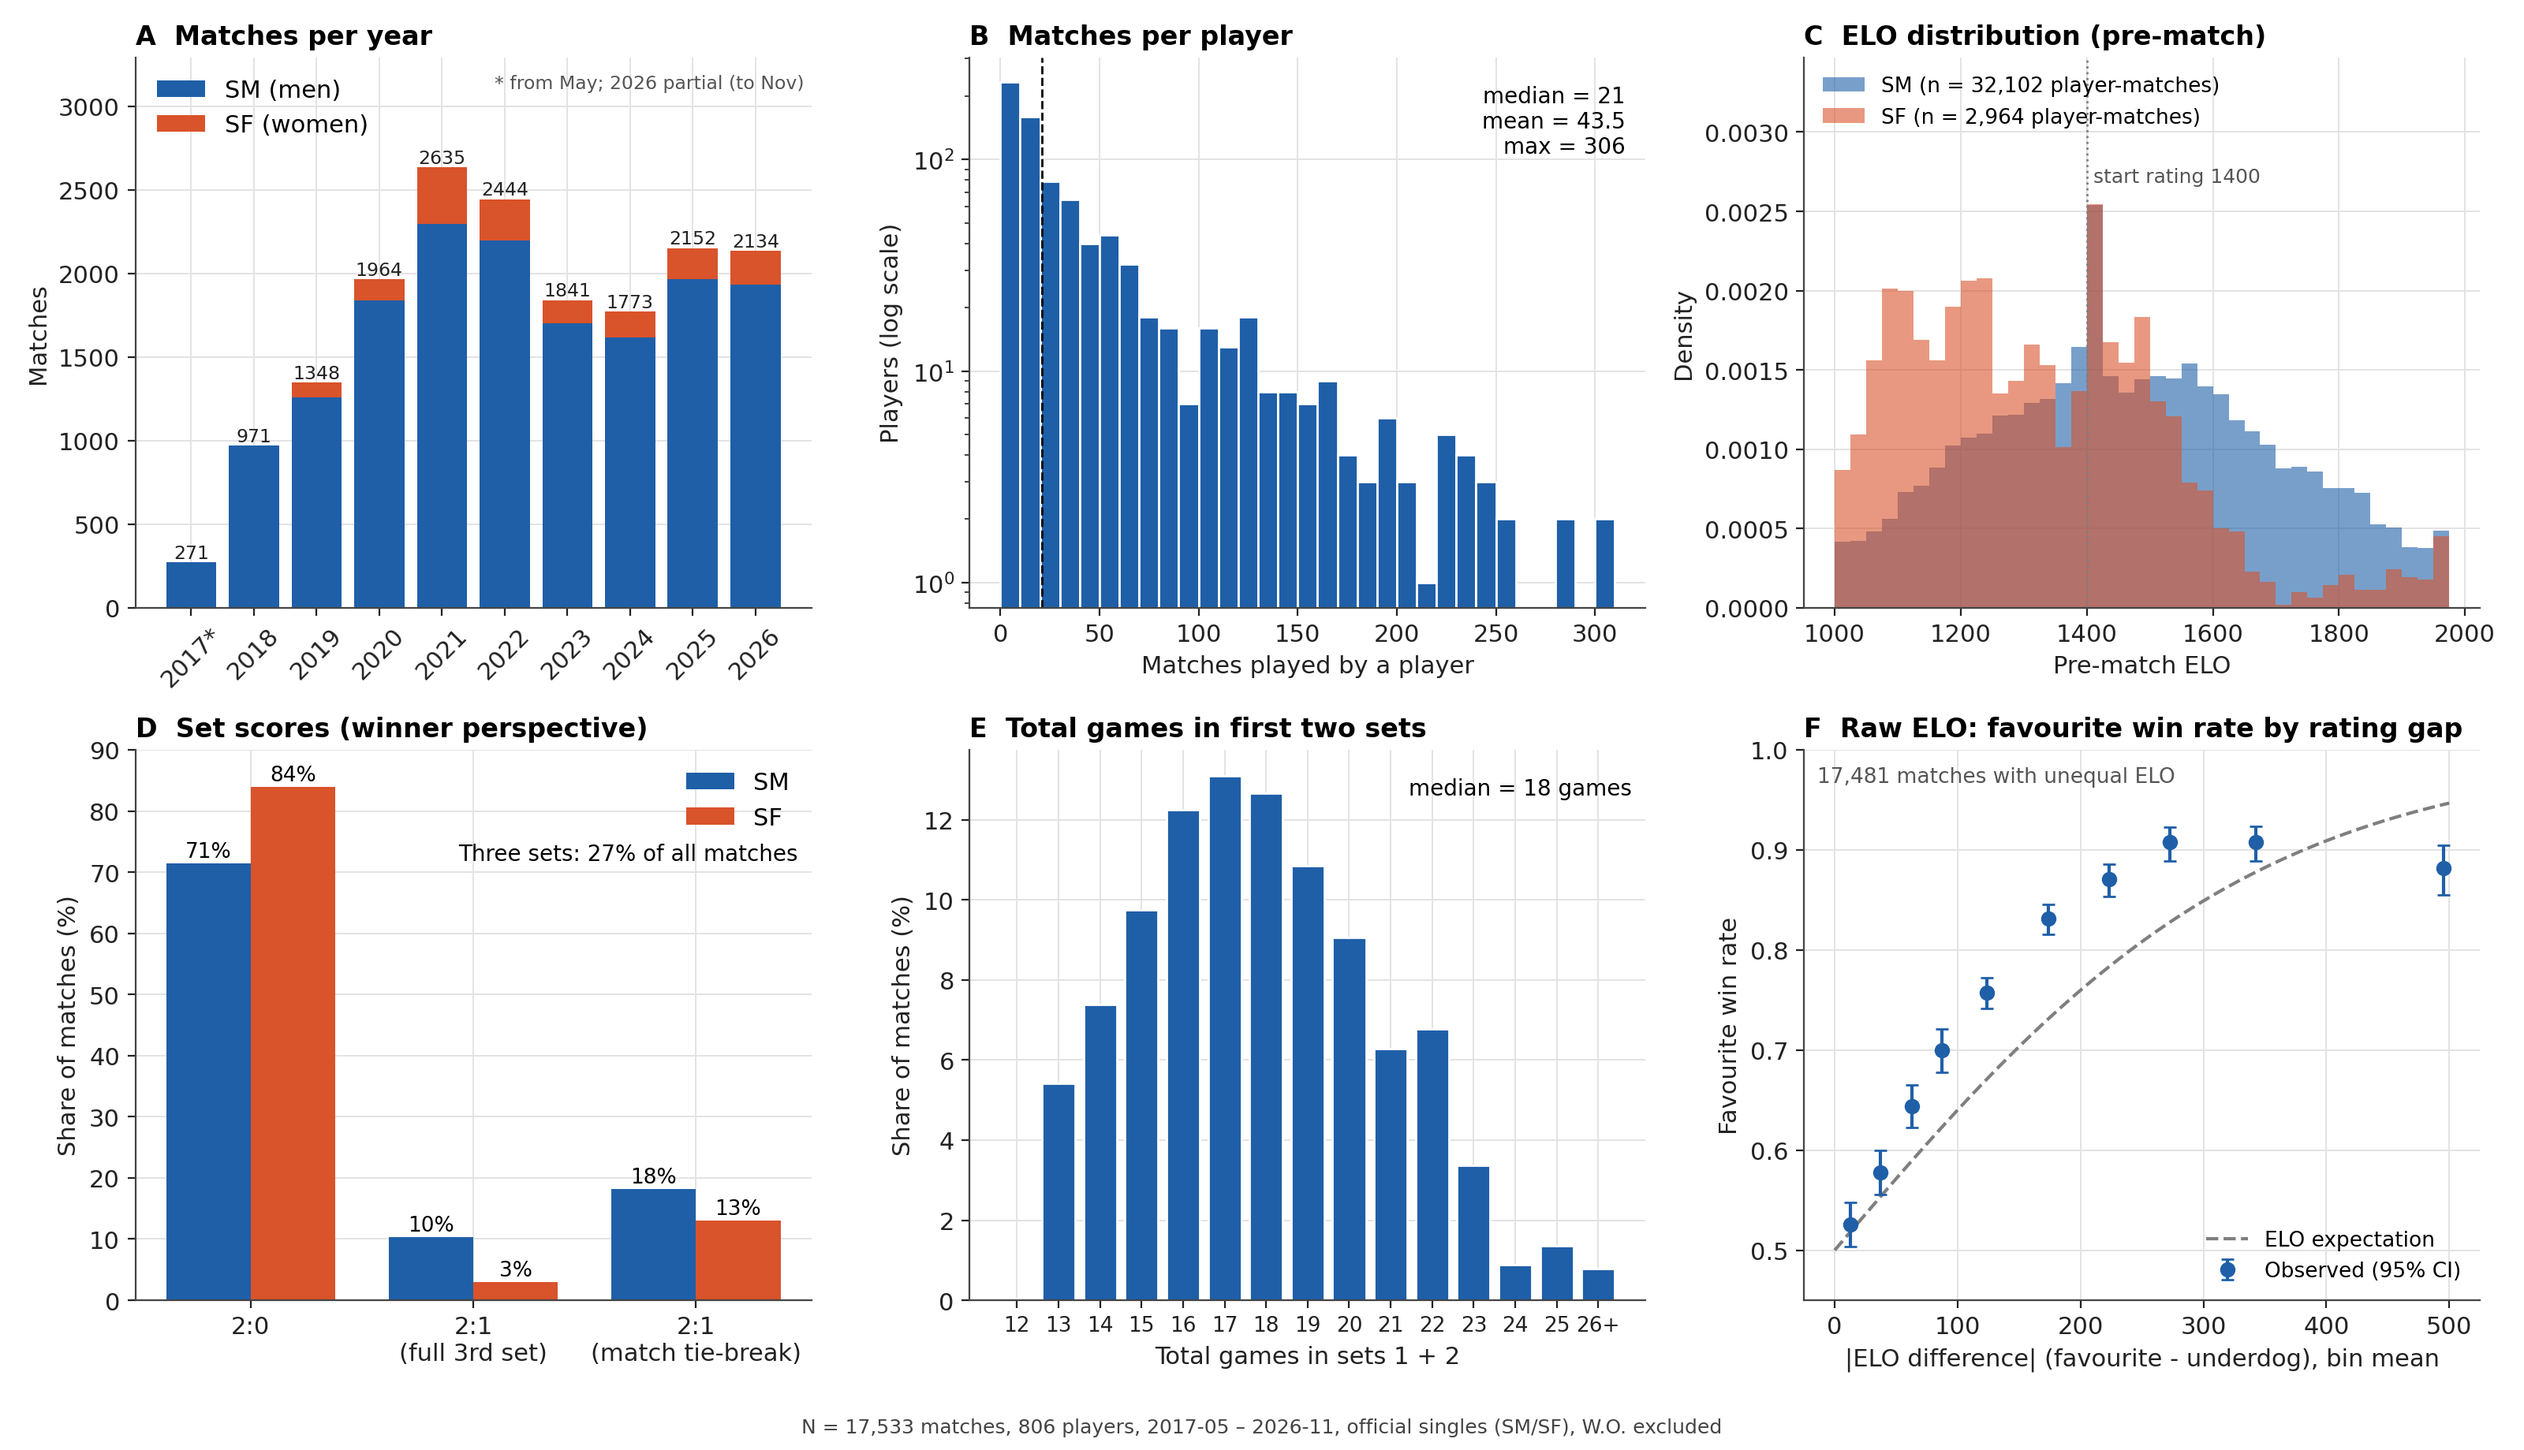
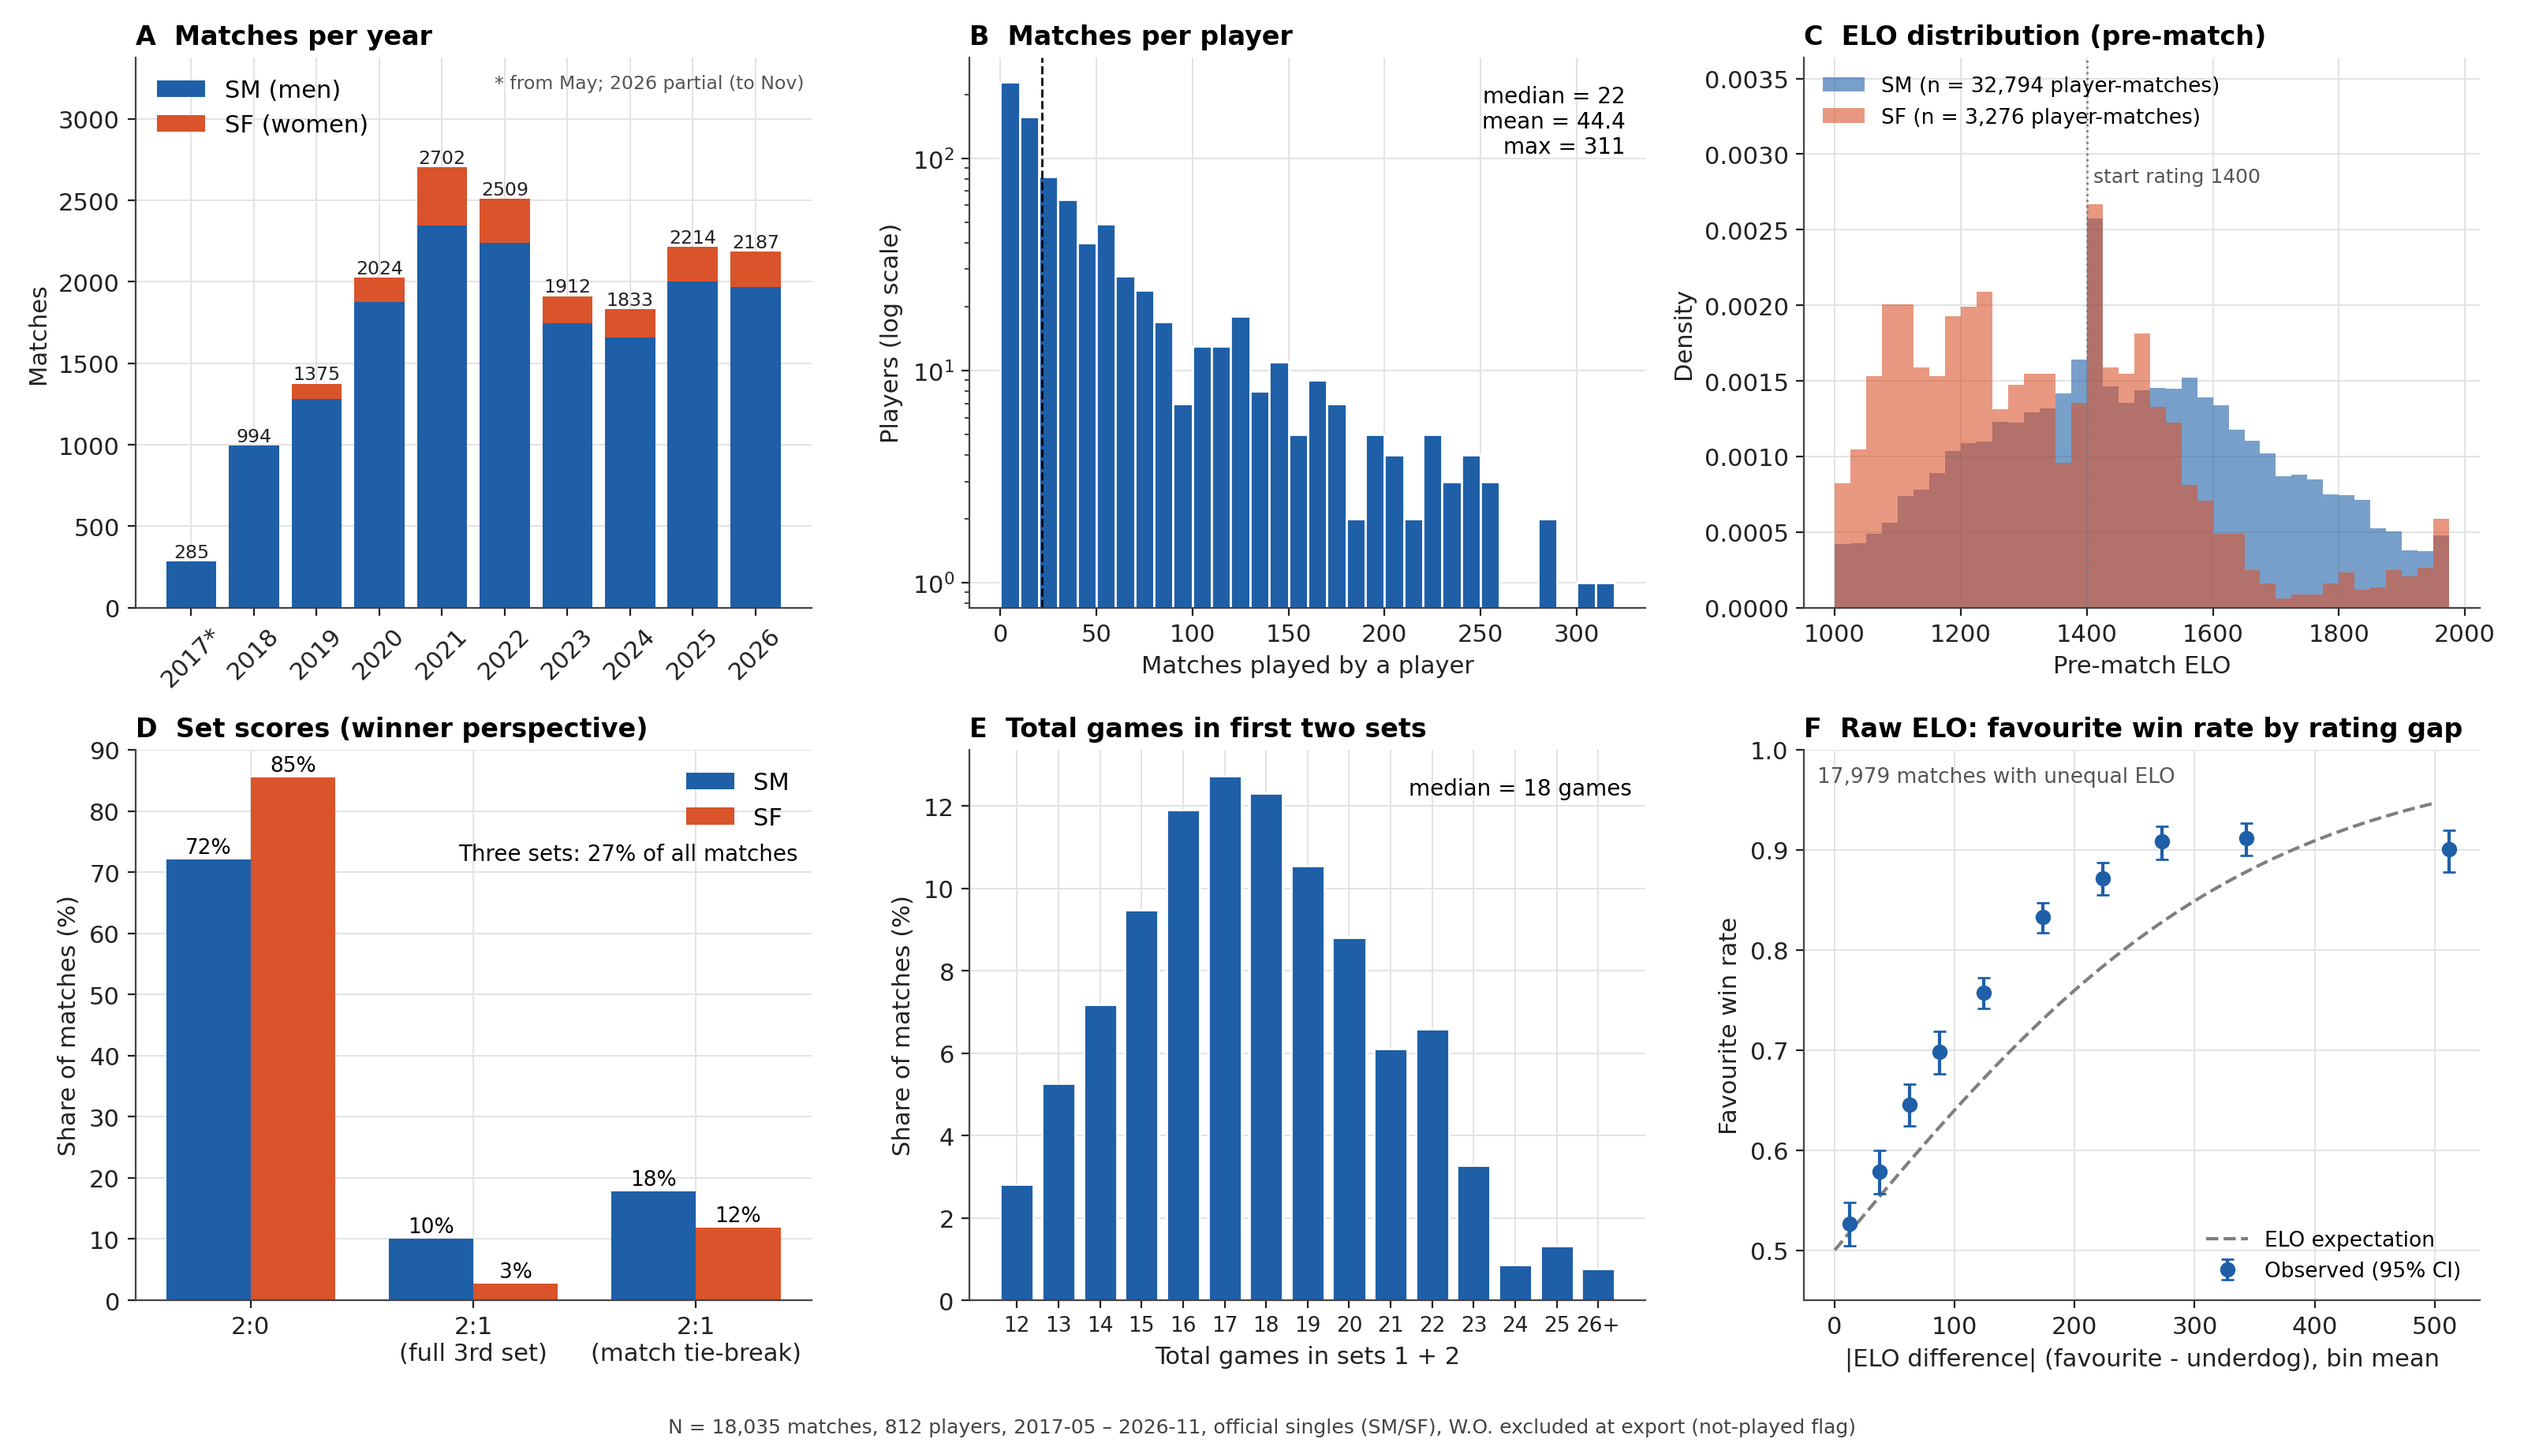
README: W.O. is excluded at export via the not-played flag; dataset overview regenerated on all 18,035 matches

diff --git a/scripts/plot_dataset_overview.py b/scripts/plot_dataset_overview.py
@@ -36,9 +36,8 @@ def main():
         f = Path(wd) / 'matches_export.csv'
     d = pd.read_csv(f)
     d = d[d.LigaTip.isin(['SM', 'SF'])]
-    # W.O. rows are stored as 6:0 6:0 (sets 6,6 vs 0,0) in the source system
-    wo = (d.W_Set1 == 6) & (d.W_Set2 == 6) & (d.L_Set1 == 0) & (d.L_Set2 == 0)
-    d = d[~wo].copy()
+    # W.O. (not-played flag) rows are already excluded at export; 6:0 6:0 rows without the flag are kept
+    d = d.copy()
     d['Datum'] = pd.to_datetime(d.Datum, utc=True).dt.tz_localize(None)
     d['Year'] = d.Datum.dt.year
     n = len(d)
@@ -159,12 +158,12 @@ def main():
     fig.tight_layout(rect=(0, 0.035, 1, 1))
     fig.text(0.5, 0.012,
              f'N = {n:,} matches, {players:,} players, {d0:%Y-%m} – {d1:%Y-%m}, '
-             'official singles (SM/SF), W.O. excluded',
+             'official singles (SM/SF), W.O. excluded at export (not-played flag)',
              ha='center', fontsize=9, color='#444444')
     OUT.parent.mkdir(parents=True, exist_ok=True)
     fig.savefig(OUT, dpi=200, facecolor='white')
     print(f'N={n} players={players} range={d0:%Y-%m-%d}..{d1:%Y-%m-%d} SM={int((d.LigaTip == "SM").sum())} '
-          f'SF={int((d.LigaTip == "SF").sum())} WO_removed={int(wo.sum())}')
+          f'SF={int((d.LigaTip == "SF").sum())}')
     print(f'median/player={med} mean={pc.mean():.1f} three_sets={three.mean():.3f} stb={stb.mean():.3f} med_games={gm}')
     print('F bins', list(zip(np.round(xs), np.round(ys, 3), np.round(ex, 3), cnt)))
 

diff --git a/README.md b/README.md
@@ -10,7 +10,7 @@ November 2026
 
 Rating systems such as ELO convert match history into win probabilities. This study has two parts.
 (1) *Beat:* can a learned model beat the league's existing ELO rating system at Tenis Liga Split, a
-recreational tennis league (singles, about 17.5k official matches since 2017, pseudonymized), without ever
+recreational tennis league (singles, about 18k official matches since 2017, pseudonymized), without ever
 seeing ELO as an input? An ELO-free two-tower GRU (Exp C) does: on the July snapshot its Brier score
 is 0.1628 against 0.1771 for ELO (−8.1%), with higher accuracy (76.21% vs 75.18%). (2) *Improve:* most
 models use ELO as a feature, so they do not so much beat it as build on it; how far can ELO be
@@ -102,10 +102,13 @@ league administrators can delete or correct a wrongly entered result.
 **Official matches and W.O.** A match counts as *official* if it was played in a league (as
 opposed to a friendly). A match that was not played (walkover, W.O.) is registered by the same form
 with a stated reason, is stored as a 6:0, 6:0 win for the awarded player, and triggers a
-notification to the league committee. The export carries no W.O. indicator, so W.O. results can only
-be recognised by their score. They count as wins in the league standings but are not matches
-actually played; 6:0 6:0 rows are therefore excluded from this study's dataset, as are Masters,
-doubles and friendly matches (§2.2).
+notification to the league committee. In the source such a match carries a "not played" flag. W.O.
+results count as wins in the league standings but are not matches actually played; they are
+excluded at export by this flag, before sequences, features, labels and evaluation are built (the
+same filter is used in training and in production serving), as are Masters, doubles and friendly
+matches (§2.2). Because a W.O. is also stored as a 6:0 6:0 score, the score alone is not a reliable
+criterion: 6:0 6:0 matches without the flag stay in the data (about 2.8%) and may include a few
+unflagged W.O.
 
 **Export for research.** Analysis never touches the live system. A script in this repository
 (`scripts/export_data.mjs`) reads the relational database of the league through a read-only
@@ -128,34 +131,34 @@ private). Raw exports and per-match predictions are never committed (Appendix F)
 
 | | July 2026 | November 2026 |
 |---|---|---|
-| Matches | ~17,128 | 17,533 (6:0 6:0 rows excluded; 18,035 with them) |
+| Matches | ~17,128 | 18,035 (W.O. already excluded at export) |
 | Split | chronological 80/20; test 3,426 matches | chronological; test 3,607 matches (= walk-forward fold 4) |
 | Walk-forward | 4 expanding folds (notebooks 06, 09, 12) | 4 expanding folds, 14,428 test matches pooled (notebooks 14–18) |
 | Models | 0, A, A′, B, B′, C, C2, C3, C4 | 0, A, A′, B, B′, C, C2, C3 (+5-seed ensemble), TabPFN, XGBoost B′, blends |
 
-**Dataset size and scope.** After excluding the 502 rows with a 6:0 6:0 score (the way a W.O. is
-stored; the source has no W.O. flag, see §2.1), the November dataset used for modelling contains
-N = 17,533 official singles matches (16,051 men's `SM`, 1,482 women's `SF`) between 806 players,
-from May 2017 to November 2026. The 18,035 matches mentioned in §3.0 and in the ELO reconstruction
-are the same export *including* those 502 rows, because the league's rating system and the
-feature table were built on that superset; the figure and the statistics below describe the
-17,533. Players have a median of 21 matches (mean 43.5, maximum 306), so most players have a short
-history. 27.5% of matches go to a third set and 17.8% of all matches end with a match tiebreak
-(these shares differ slightly from the July-snapshot figures in §2.1 because the sample is larger
-and later); the median total of games in the first two sets is 18.
+**Dataset size and scope.** W.O. matches are excluded at export by the source's not-played flag
+(see §2.1), so the November dataset used for modelling, features and evaluation contains
+N = 18,035 official singles matches (16,397 men's `SM`, 1,638 women's `SF`) between 812 players,
+from May 2017 to November 2026; this is the same set as in §3.0 and the ELO reconstruction. About
+2.8% of matches are recorded as 6:0 6:0 without the flag; they are genuine one-sided matches or
+rare unflagged W.O. and remain in the data. Players have a median of 22 matches (mean 44.4,
+maximum 311), so most players have a short history. 26.7% of matches go to a third set and 17.3%
+of all matches end with a match tiebreak (these shares differ slightly from the July-snapshot
+figures in §2.1 because the sample is larger and later); the median total of games in the first
+two sets is 18.
 
 ![Figure A](notebooks/figures/dataset_overview.png)
 
-**Figure A.** Dataset overview (N = 17,533 official singles matches, 806 players, May 2017 to
-November 2026, W.O.-coded 6:0 6:0 rows excluded). (A) Matches per year, men (`SM`) and women (`SF`);
+**Figure A.** Dataset overview (N = 18,035 official singles matches, 812 players, May 2017 to
+November 2026, W.O. excluded at export by the not-played flag). (A) Matches per year, men (`SM`) and women (`SF`);
 2017 starts in May and 2026 is partial. (B) Distribution of matches per player (log scale; dashed
-line: median 21). (C) Pre-match ELO ratings per player-match, by league type; the spike at 1,400 is
+line: median 22). (C) Pre-match ELO ratings per player-match, by league type; the spike at 1,400 is
 the starting rating. (D) Set-score outcomes from the winner's perspective: straight sets, a full
 third set, and a third-set match tiebreak. (E) Total games in the first two sets, the quantity that
 drives the league's margin-dependent ELO score (Table C). (F) Raw ELO calibration: observed
 favourite win rate by absolute rating gap (95% intervals) against the ELO expectation (dashed).
 The favourite wins more often than ELO implies over most of the range (e.g. 0.83 against 0.73 at a
-gap of about 175) and less often only in the largest bin (about 495: 0.88 against about 0.95), which
+gap of about 175) and less often only in the largest bin (about 510: 0.90 against about 0.94), which
 motivates the calibration step of §3.3. Produced by `scripts/plot_dataset_overview.py`.
 
 **Table E.** Match record schema (one row per match; field names are descriptive, not the
